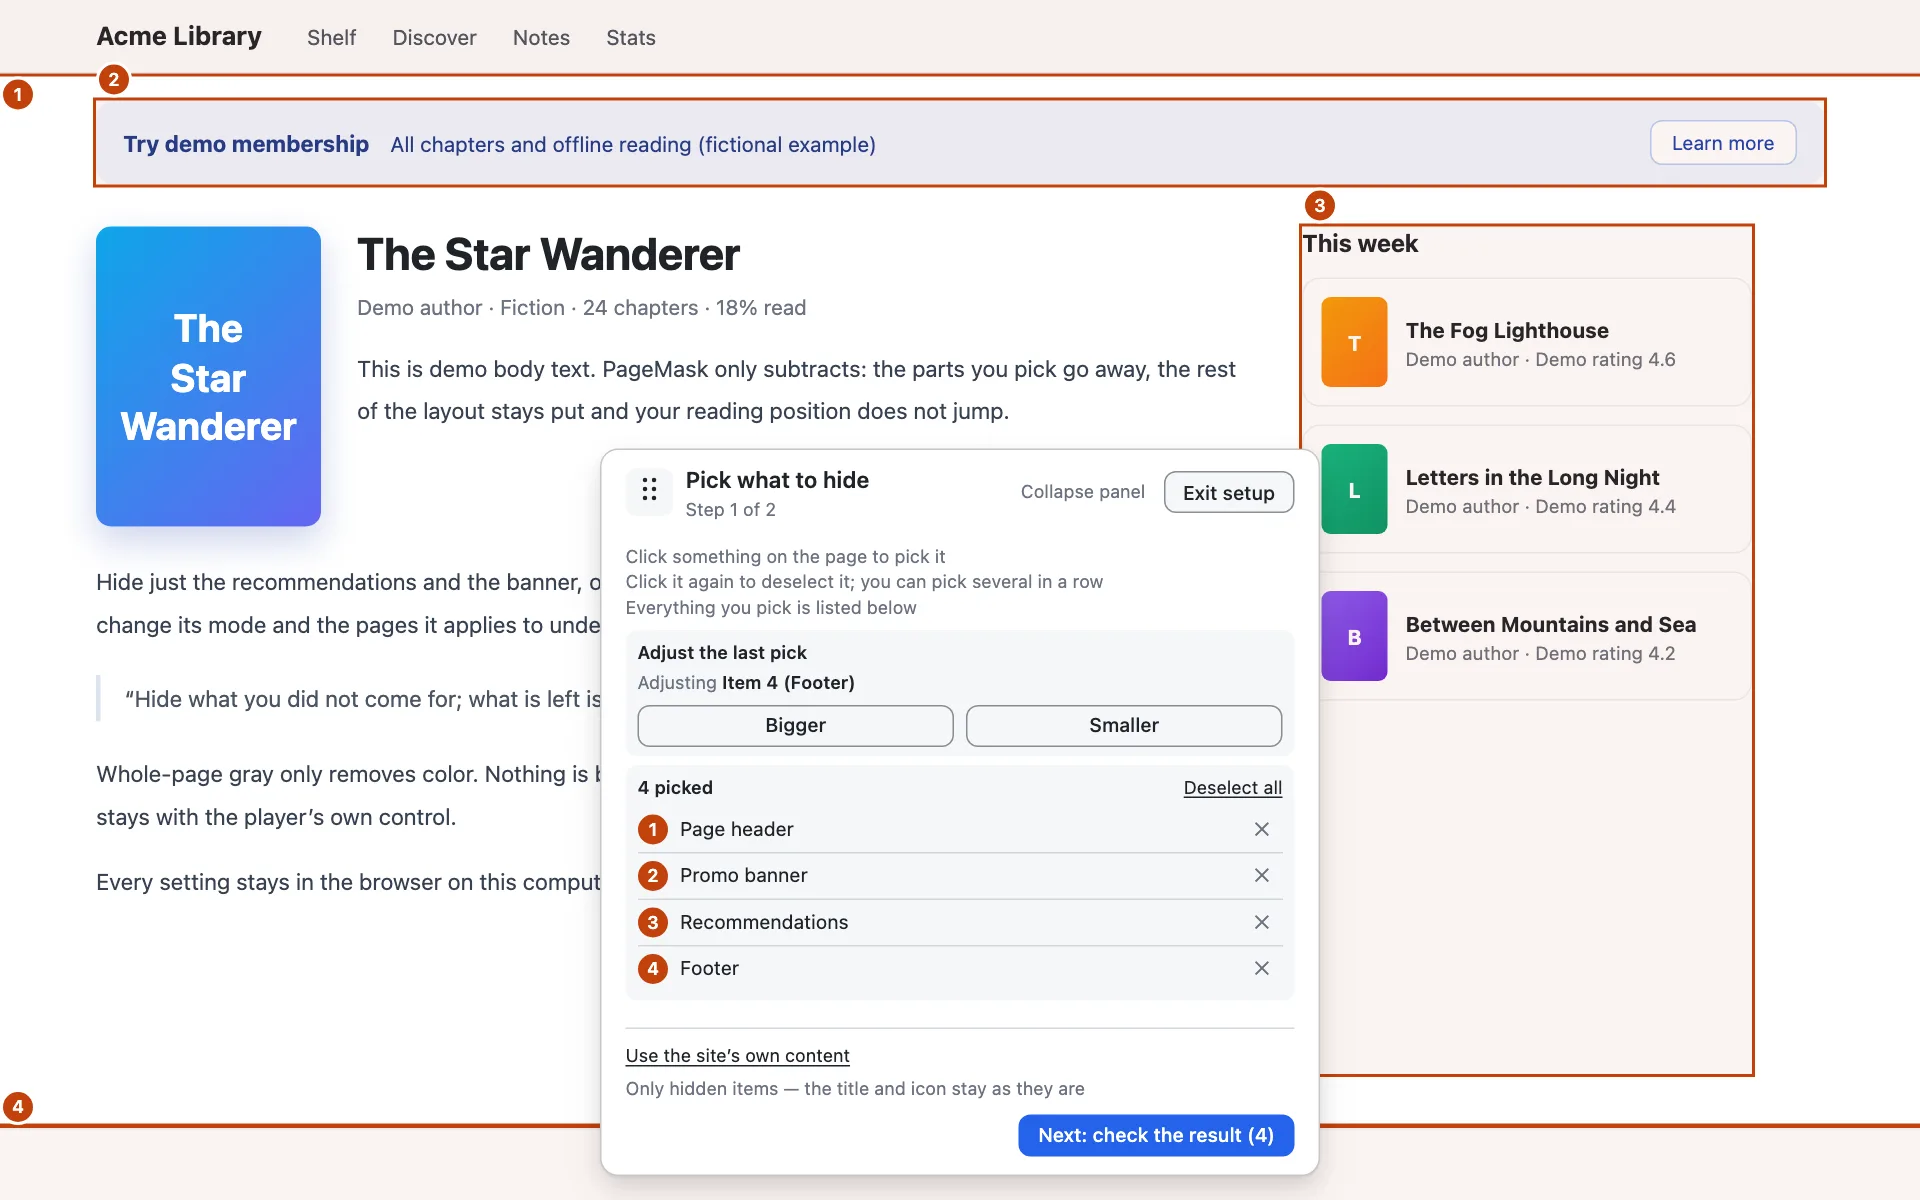
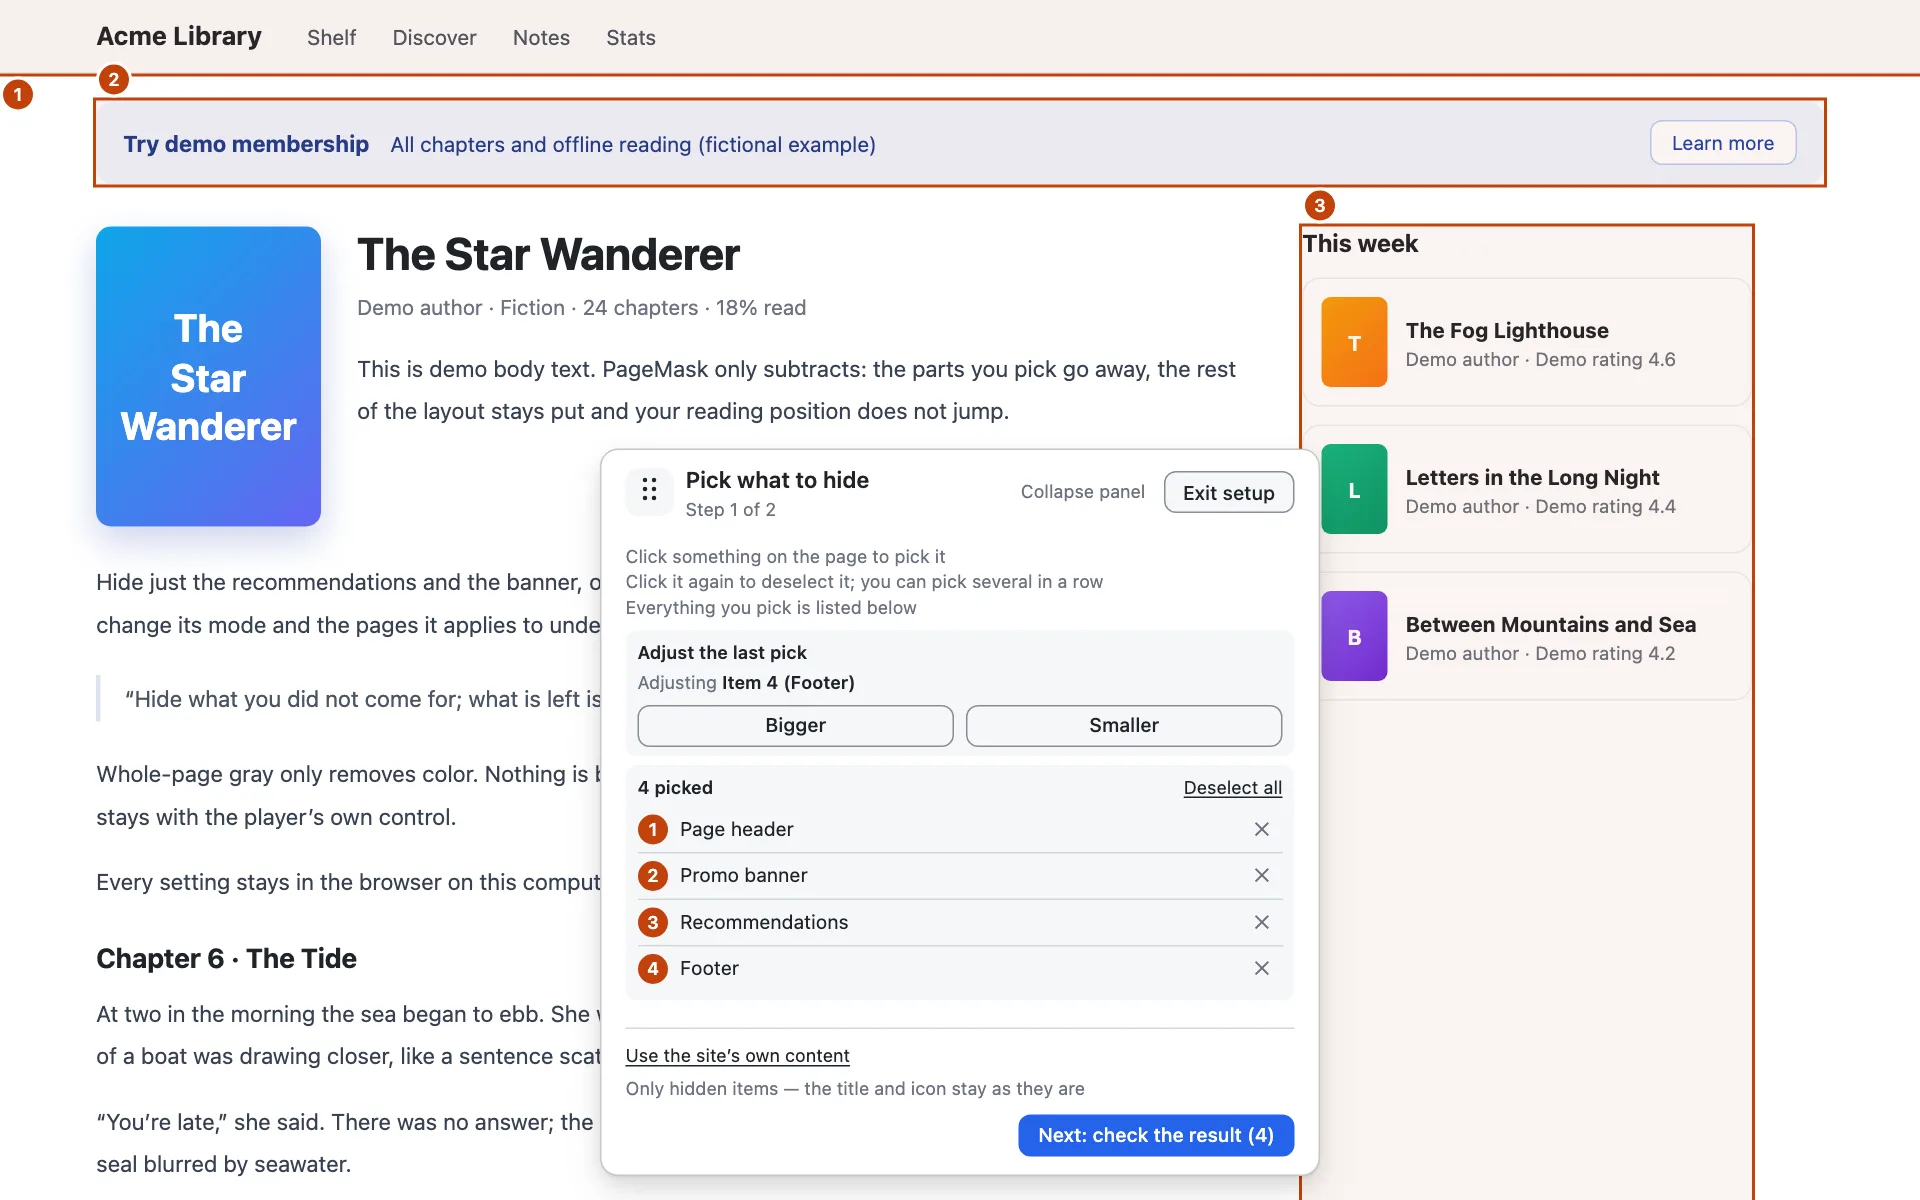
feat(landing): 首屏改为四步叠加演示，删除实际界面区
用户反馈首屏只展示了收起内容，换标题与整页变灰没出现；下方「实际界面」区
太乱，像使用说明不像产品介绍。

- 首屏改成带可见步骤名的四步分段器（步骤按钮 + 上下步箭头 + 计数，键盘可切换），
  默认停在换标题 + 收起 4 项；浏览器标签页用 HTML 示意并注明非截图。
- 截图素材由 7 张减到 4 张（原样 / 收起 / 收起+变灰 / 点选），演示站点补一节正文，
  避免收起页头后半屏空白被误读为未加载完。
- 删「实际界面」区，点选图并入「怎么用」第 3 步；新眼睛提出的文案与术语问题一并修复。

Changed region(s): [[0.0625, 0.7708, 0.3125, 0.8942], [0.6875, 0.8942, 1.0, 0.9558], [0.0, 0.8942, 0.3125, 0.9867]]

diff --git a/docs/dev/DEVLOG.md b/docs/dev/DEVLOG.md
@@ -2,6 +2,17 @@
 
 按时间倒序记录开发过程中的关键事件、超出 `docs/design.md` 范围的临时决策及其理由。正式的架构决策写 `docs/adr/`，这里只记过程。
 
+## 落地页四步演示（2026-11-16，第二轮）：首屏叠加演示 + 删「实际界面」区
+
+用户反馈两点：① 首屏只展示了收起内容，换标题与整页变灰没出现，要求三项功能用一个连续变化展示（原样 → 换标题 → 再收起 → 再变灰）；②「实际界面」区太乱、像使用说明不像产品介绍。
+
+- **首屏改成四步叠加演示**：不用自动轮播（web.dev / NN/g 均建议避免自动前进），改成带可见步骤名的分段器：4 个步骤按钮 + 上一步 / 下一步箭头 + 3/4 计数，键盘 ← / → 可切换；每步配一句累计说明（`aria-live`）。默认停在第 3 步（换标题 + 收起 4 项）——先看到结果，再看原样与更进一步的变灰。
+- **标题变化的呈现**：浏览器标签栏不在页面截图里，伪造一张会变成效果图。做法是演示框顶部画一个标签页示意（HTML/CSS，非截图），第 1 步显示原站标题与图标，第 2 步起变成「阅读」且图标留空；图注明确写「标签页是示意图，不是截图」。
+- **截图素材从 7 张减到 4 张**：before / after / gray-hidden / pick，中英各一套；删掉弹窗、悬浮按钮菜单、变灰前后对比四张，落地页不再引用。演示站点补了一节正文（第 6 章），避免收起页头后在 1280×800 截图里留下半屏空白被误读为「没加载完」（首轮新眼睛的 P0）。截图仍为 1920×1200 WebP。
+- **删「实际界面」区**：点选图并入「怎么用」第 3 步下方；页面顺序改为 首屏 → 功能 → 怎么用 → 安装 → 隐私 → 常见问题。首屏与功能先说「是什么」，怎么用再说「怎么做」。
+- **新眼睛一轮（5 张）**：P0 半屏空白（补正文后已消）；P1「正文留在原位」与画面不符（改「正文还在，照常阅读」）、首屏「标签页」被拆行（nowrap）、功能卡「收起的内容」与术语表的功能名不一致（改「收起内容」）。截图可点击直接打开大图，手机端不必先找文字链接。保留：怎么用的蓝 1–3 与点选图里的橙 1–4 是真实界面的两套编号，图注已说明橙色编号只在点选时出现。
+- **门禁**：compile ✓、单测 864（57 文件）✓、check:docs ✓；落地页四配置（中 / 英、桌面 / 390 移动、深色）真实渲染检查 32 项 ✓（`tmp/check-demo.mjs`）；截图目录与落地页仓库同步。
+
 ## 落地页真实截图（2026-11-16）：首屏前后对比 + 实际界面区
 
 用户要把 PageMask 介绍给别人，纯文字传达不了实际长相，要求落地页放真实截图。

diff --git a/docs/dev/e2e.md b/docs/dev/e2e.md
@@ -27,7 +27,7 @@ npm run test:e2e            # = wxt build && node tests/e2e/run-e2e.mjs，约 45
 | `check-editor.mjs` | 编辑面板（#24：popup 入口、重选替换、开关不被覆盖、逐行校验、删除撤销） | 约 10 秒 |
 | `check-toggle.mjs` | 悬浮按钮与无障碍（#25：菜单不出屏/翻转/Esc/点外关闭、无右键菜单、Tab+回车、拖动贴边、三底色对比度、对话框在超高浮层之上） | 约 10 秒 |
 
-截图写到 `test-results/e2e/`（已忽略）。其他脚本不进 `test:e2e`：`check-i18n.mjs`、`check-dark-mode.mjs`、`run-e2e-real.mjs`（真实网站，输出 `test-results/real/`）、`store-shots.mjs`（生成商店素材，直接写 `docs/store-assets/`，见 CHROMEWEBSTORE.md §8）、`landing-shots.mjs`（生成落地页截图 7 张 × 中英两套，写 `docs/store-assets/landing/<lang>/`，再复制到落地页仓库 `page-mask/screens/<lang>/`；界面改动后重跑：`npm run build && CHROME_ARGS="--no-sandbox --disable-gpu" node tests/e2e/landing-shots.mjs`）。
+截图写到 `test-results/e2e/`（已忽略）。其他脚本不进 `test:e2e`：`check-i18n.mjs`、`check-dark-mode.mjs`、`run-e2e-real.mjs`（真实网站，输出 `test-results/real/`）、`store-shots.mjs`（生成商店素材，直接写 `docs/store-assets/`，见 CHROMEWEBSTORE.md §8）、`landing-shots.mjs`（生成落地页截图 4 张 × 中英两套：原样 / 收起 4 项 / 收起 + 整页变灰 / 点选界面，写 `docs/store-assets/landing/<lang>/`，再复制到落地页仓库 `page-mask/screens/<lang>/`；界面改动后重跑：`npm run build && CHROME_ARGS="--no-sandbox --disable-gpu" node tests/e2e/landing-shots.mjs`）。
 
 ## 工具函数（`tests/e2e/lib/`）
 
